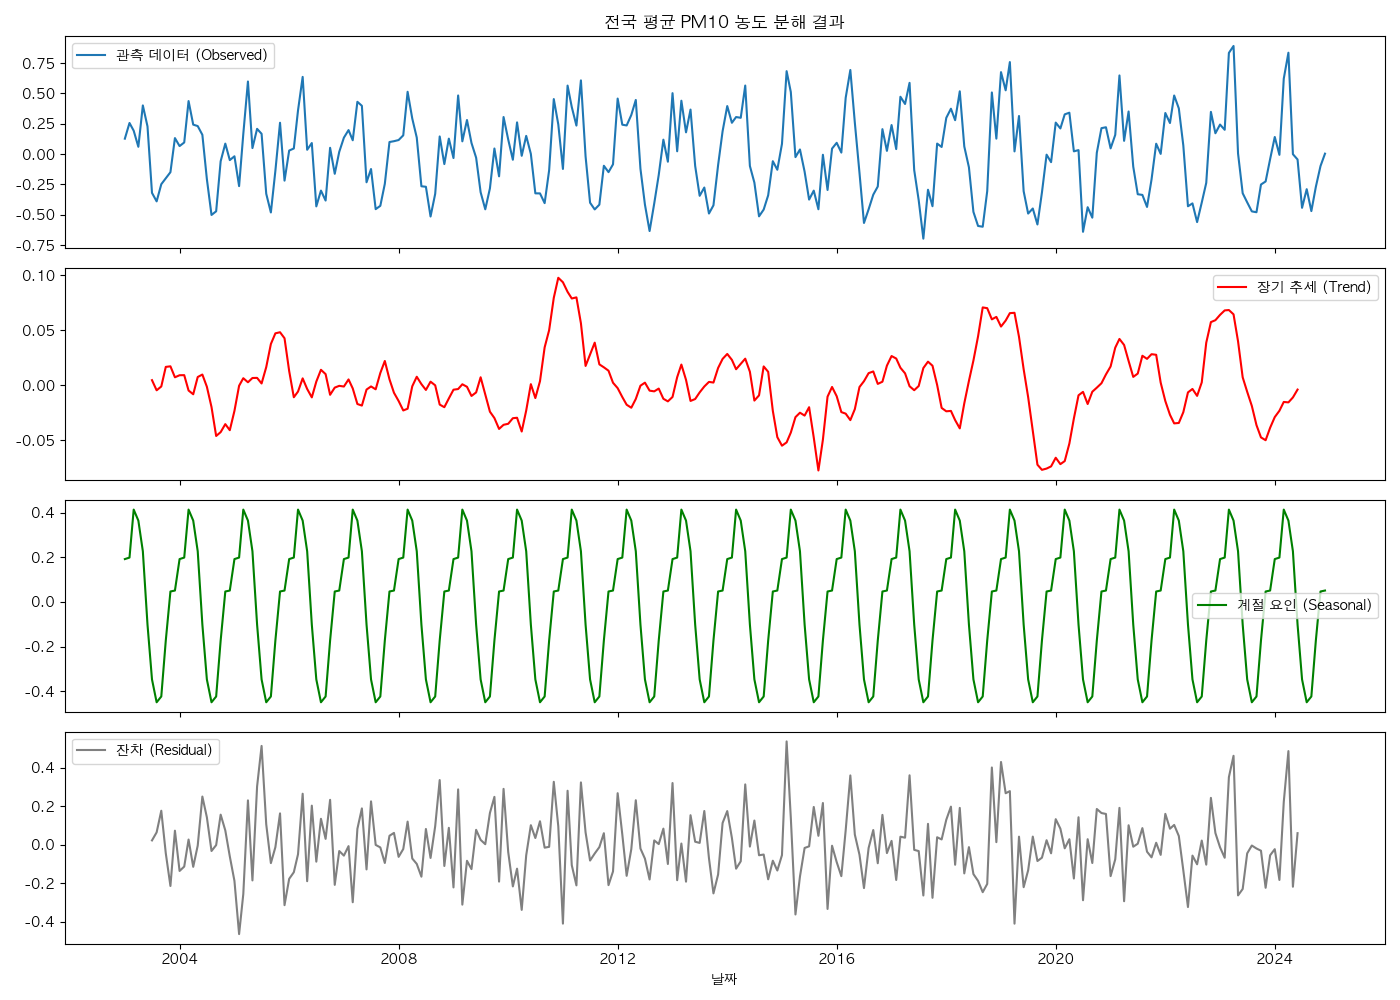
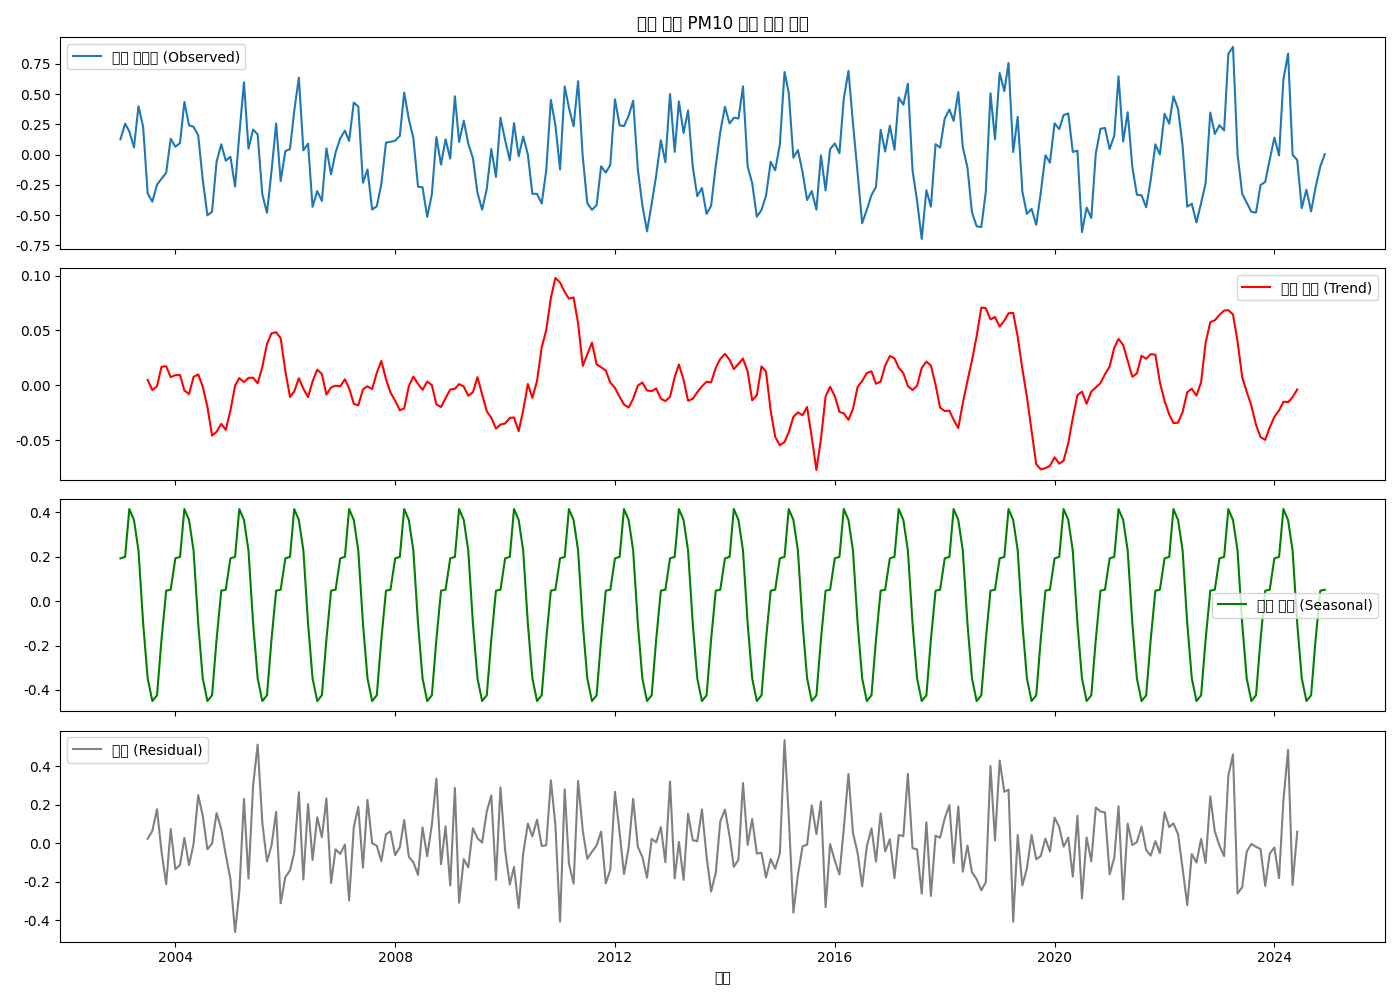
dashboard modify

diff --git a/dashboard_app.py b/dashboard_app.py
@@ -14,6 +14,7 @@ import pandas as pd
 import matplotlib.pyplot as plt
 import seaborn as sns
 import streamlit as st
+from statsmodels.tsa.seasonal import seasonal_decompose
 
 from pathlib import Path
 
@@ -318,6 +319,125 @@ if aqi_cols:
         st.pyplot(fig4)
 else:
     st.info("pm10_z, no2_z, so2_z 중 최소 하나 이상이 있어야 AirQualityIndex를 계산할 수 있습니다.")
+
+st.markdown("---")
+
+# =========================
+# 8. 계절성 분해 분석 섹션 (analyze_seasonal_decomposition.py 기반)
+# =========================
+
+st.header("Seasonal Decomposition Analysis")
+
+# 계절성 분해 분석용 데이터 경로
+DECOMPOSE_CSV_PATH = BASE_DIR / "results" / "pandas_analysis" / "unified_national_merged_data.csv"
+TARGET_POLLUTANT = 'national_avg_PM10'
+TARGET_POWER = 'Power_GWh'
+
+# 계절성 분해 데이터 로드 함수
+@st.cache_data
+def load_decomposition_data(csv_path):
+    """계절성 분해 분석용 통합 데이터 로드"""
+    try:
+        df = pd.read_csv(csv_path, index_col=0, parse_dates=True)
+        df.sort_index(inplace=True)
+        return df
+    except FileNotFoundError:
+        return None
+    except Exception as e:
+        st.error(f"데이터 로드 중 오류 발생: {e}")
+        return None
+
+def perform_seasonal_decomposition(series, model='additive', period=12):
+    """계절성 분해 수행"""
+    try:
+        result = seasonal_decompose(series.dropna(), model=model, period=period)
+        return result
+    except Exception as e:
+        st.error(f"계절성 분해 중 오류 발생: {e}")
+        return None
+
+# 계절성 분해 분석 실행
+decomposition_data = load_decomposition_data(DECOMPOSE_CSV_PATH)
+
+if decomposition_data is None:
+    st.warning(
+        f"계절성 분해 분석 데이터 파일을 찾을 수 없습니다: {DECOMPOSE_CSV_PATH}\n"
+        "`unified_analysis_parquet.py`를 먼저 실행하여 데이터 파일을 생성해주세요."
+    )
+else:
+    # 필요한 컬럼 확인
+    if TARGET_POLLUTANT not in decomposition_data.columns or TARGET_POWER not in decomposition_data.columns:
+        st.error(
+            f"필수 컬럼이 없습니다. 필요한 컬럼: {TARGET_POLLUTANT}, {TARGET_POWER}\n"
+            f"현재 컬럼: {list(decomposition_data.columns)}"
+        )
+    else:
+        try:
+            # 분석 대상 데이터 준비
+            df_analysis = decomposition_data[[TARGET_POLLUTANT, TARGET_POWER]].astype(float)
+            
+            # PM10 계절성 분해
+            st.subheader("PM10 Concentration Seasonal Decomposition")
+            result_pm10 = perform_seasonal_decomposition(df_analysis[TARGET_POLLUTANT], model='additive', period=12)
+            
+            if result_pm10 is not None:
+                fig1, axes = plt.subplots(4, 1, figsize=(14, 10), sharex=True)
+                
+                axes[0].plot(result_pm10.observed, label='Observed', color='blue')
+                axes[0].set_title('National Average PM10 Concentration Decomposition')
+                axes[0].legend()
+                axes[0].grid(True, alpha=0.3)
+                
+                axes[1].plot(result_pm10.trend, label='Trend', color='red')
+                axes[1].legend()
+                axes[1].grid(True, alpha=0.3)
+                
+                axes[2].plot(result_pm10.seasonal, label='Seasonal', color='green')
+                axes[2].legend()
+                axes[2].grid(True, alpha=0.3)
+                
+                axes[3].plot(result_pm10.resid, label='Residual', color='gray')
+                axes[3].legend()
+                axes[3].grid(True, alpha=0.3)
+                
+                plt.xlabel("Date")
+                plt.tight_layout()
+                st.pyplot(fig1)
+            
+            st.markdown("---")
+            
+            # Power 계절성 분해
+            st.subheader("Power Generation Seasonal Decomposition")
+            result_power = perform_seasonal_decomposition(df_analysis[TARGET_POWER], model='additive', period=12)
+            
+            if result_power is not None:
+                fig2, axes = plt.subplots(4, 1, figsize=(14, 10), sharex=True)
+                
+                axes[0].plot(result_power.observed, label='Observed', color='blue')
+                axes[0].set_title('National Thermal Power Generation Decomposition')
+                axes[0].legend()
+                axes[0].grid(True, alpha=0.3)
+                
+                axes[1].plot(result_power.trend, label='Trend', color='red')
+                axes[1].legend()
+                axes[1].grid(True, alpha=0.3)
+                
+                axes[2].plot(result_power.seasonal, label='Seasonal', color='green')
+                axes[2].legend()
+                axes[2].grid(True, alpha=0.3)
+                
+                axes[3].plot(result_power.resid, label='Residual', color='gray')
+                axes[3].legend()
+                axes[3].grid(True, alpha=0.3)
+                
+                plt.xlabel("Date")
+                plt.tight_layout()
+                st.pyplot(fig2)
+                
+        except Exception as e:
+            st.error(f"계절성 분해 분석 중 오류 발생: {e}")
+            import traceback
+            st.code(traceback.format_exc())
 
 st.markdown("---")
 st.caption(
